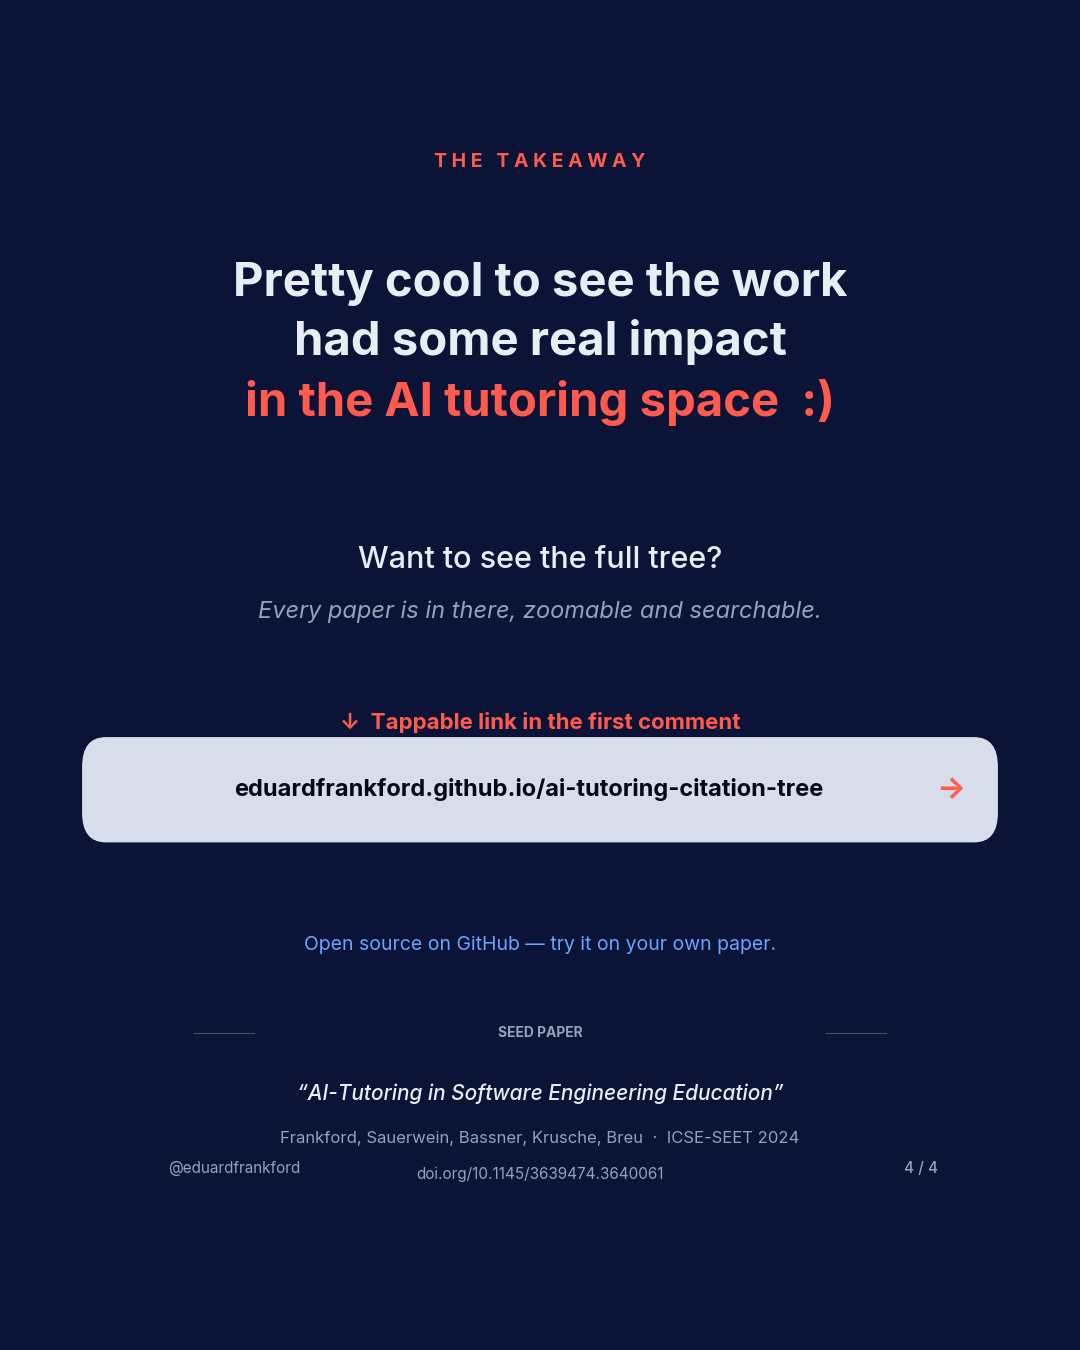
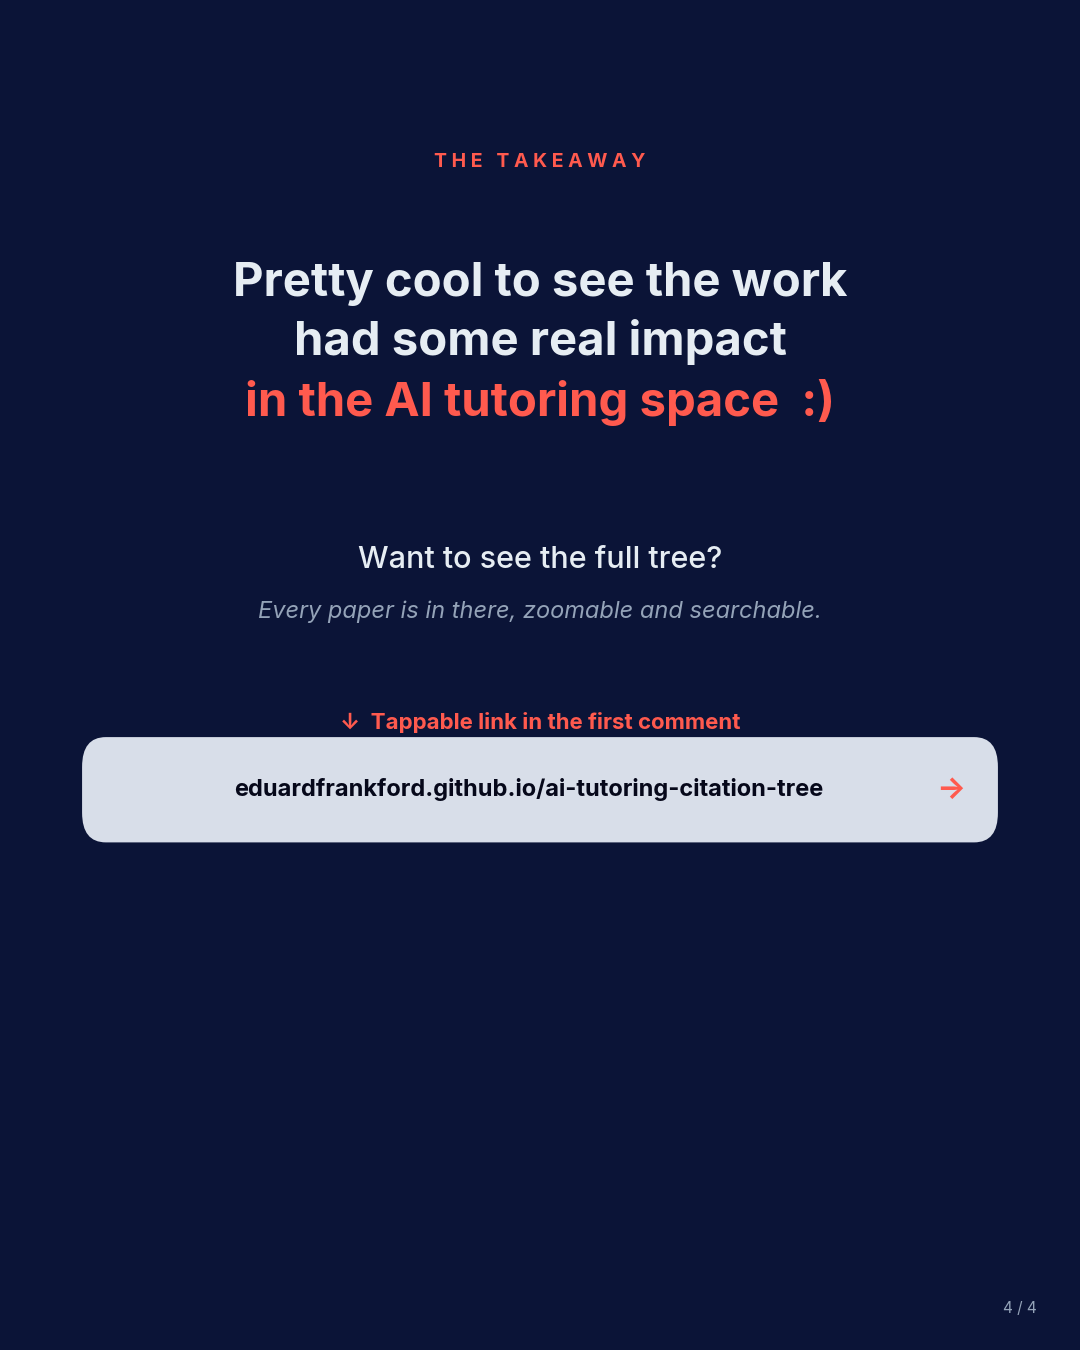
carousel: strip the bottom block from the end slide
Removed: "Open source on GitHub — try it on your own paper" line,
the SEED PAPER divider+label, the paper title/authors/venue/DOI
block, and the @user footer.

Slide 4 is now just: takeaway eyebrow, the warm reflection
headline, "Want to see the full tree?" prompt, and the URL pill.
The lower 40% of the canvas is intentionally negative space.

diff --git a/carousel/build_carousel.py b/carousel/build_carousel.py
@@ -708,43 +708,11 @@ def slide4_end(blob: dict) -> plt.Figure:
         fontsize=22, color=CORAL, ha="center", va="center", fontweight="bold",
     )
 
-    # Engagement hook — drives comments, which boosts LinkedIn reach.
+    # Just the page indicator — the warm headline + the link is the whole slide.
     fig.text(
-        0.5, 0.300,
-        "Open source on GitHub — try it on your own paper.",
-        fontsize=14, color=BLUE, ha="center", va="center",
+        0.96, 0.025, "4 / 4",
+        fontsize=11, color=MUTED, ha="right", va="bottom",
     )
-
-    # Divider
-    ax.plot([0.18, 0.235], [0.235, 0.235], color=DIM, lw=0.8,
-            transform=fig.transFigure, zorder=2)
-    ax.plot([0.765, 0.82], [0.235, 0.235], color=DIM, lw=0.8,
-            transform=fig.transFigure, zorder=2)
-    fig.text(
-        0.5, 0.235, "SEED PAPER",
-        fontsize=10, color=MUTED, ha="center", va="center",
-        fontweight="bold",
-    )
-
-    # Minimal seed paper attribution.
-    fig.text(
-        0.5, 0.190,
-        "“AI-Tutoring in Software Engineering Education”",
-        fontsize=15, color=TEXT, ha="center", va="center",
-        fontweight="medium", style="italic",
-    )
-    fig.text(
-        0.5, 0.157,
-        "Frankford, Sauerwein, Bassner, Krusche, Breu  ·  ICSE-SEET 2024",
-        fontsize=12, color=MUTED, ha="center", va="center",
-    )
-    fig.text(
-        0.5, 0.130,
-        "doi.org/10.1145/3639474.3640061",
-        fontsize=11, color=MUTED, ha="center", va="center",
-    )
-
-    _footer(ax, 4)
     return fig
 
 